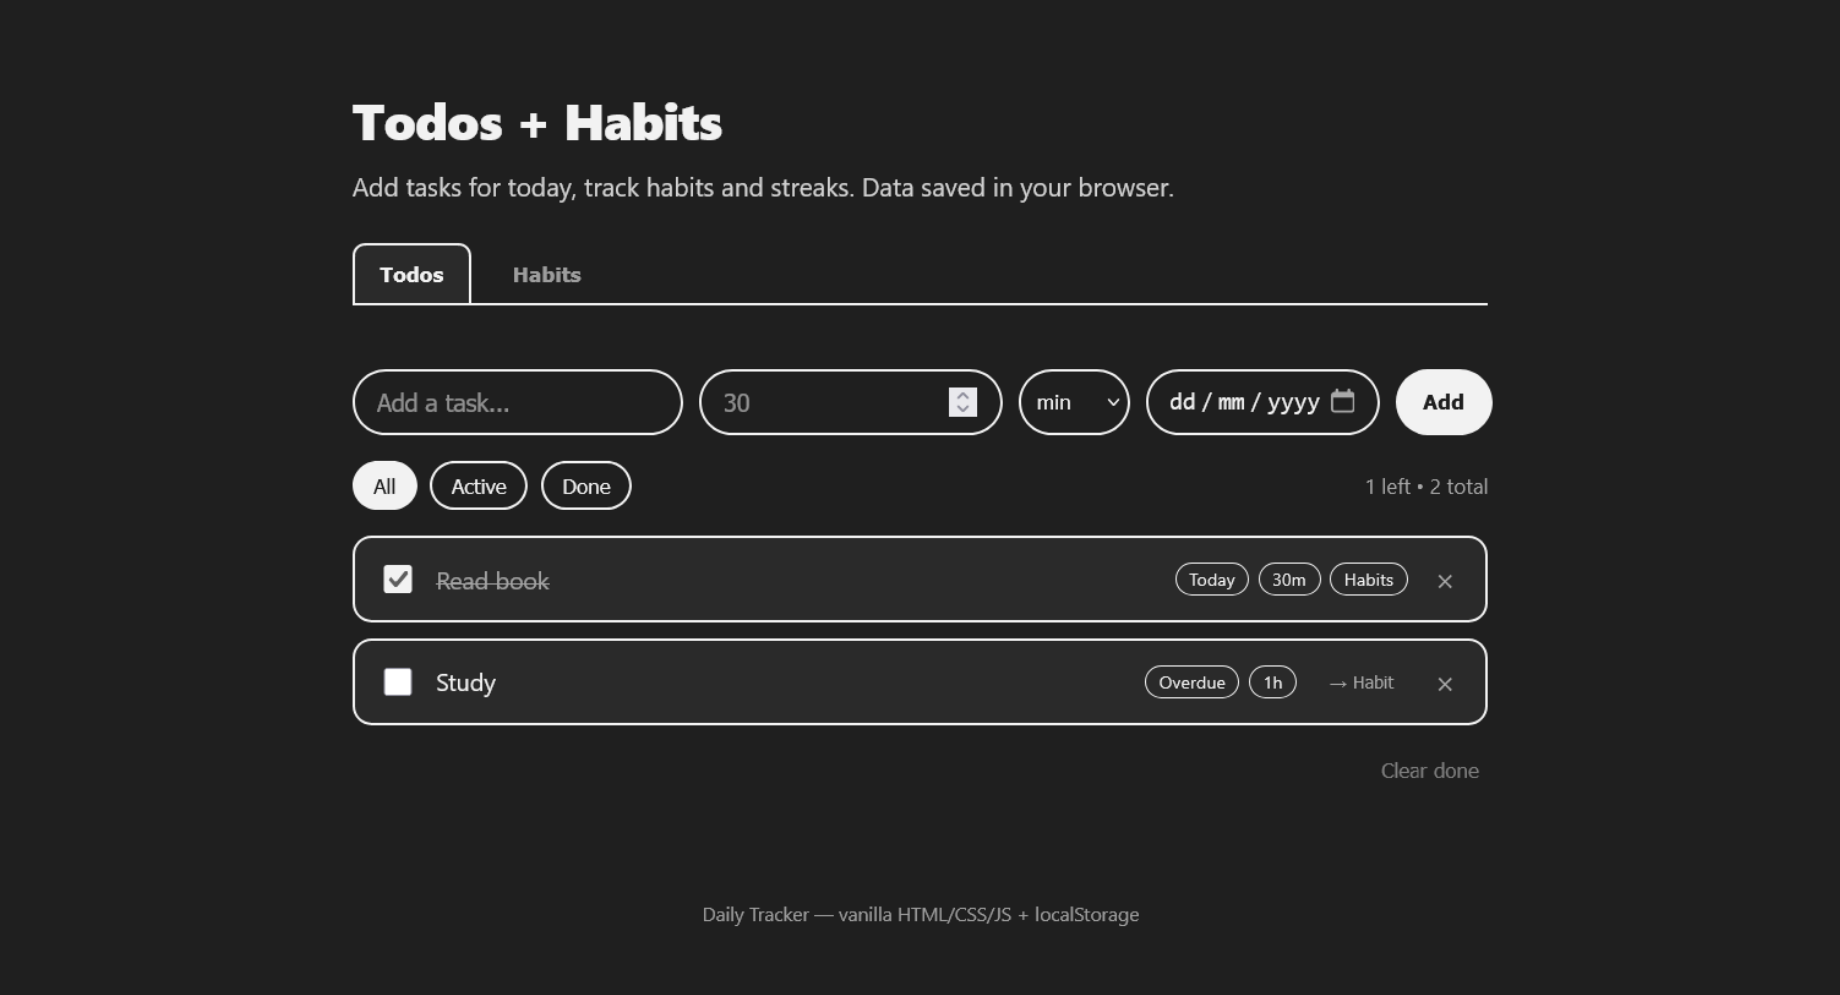
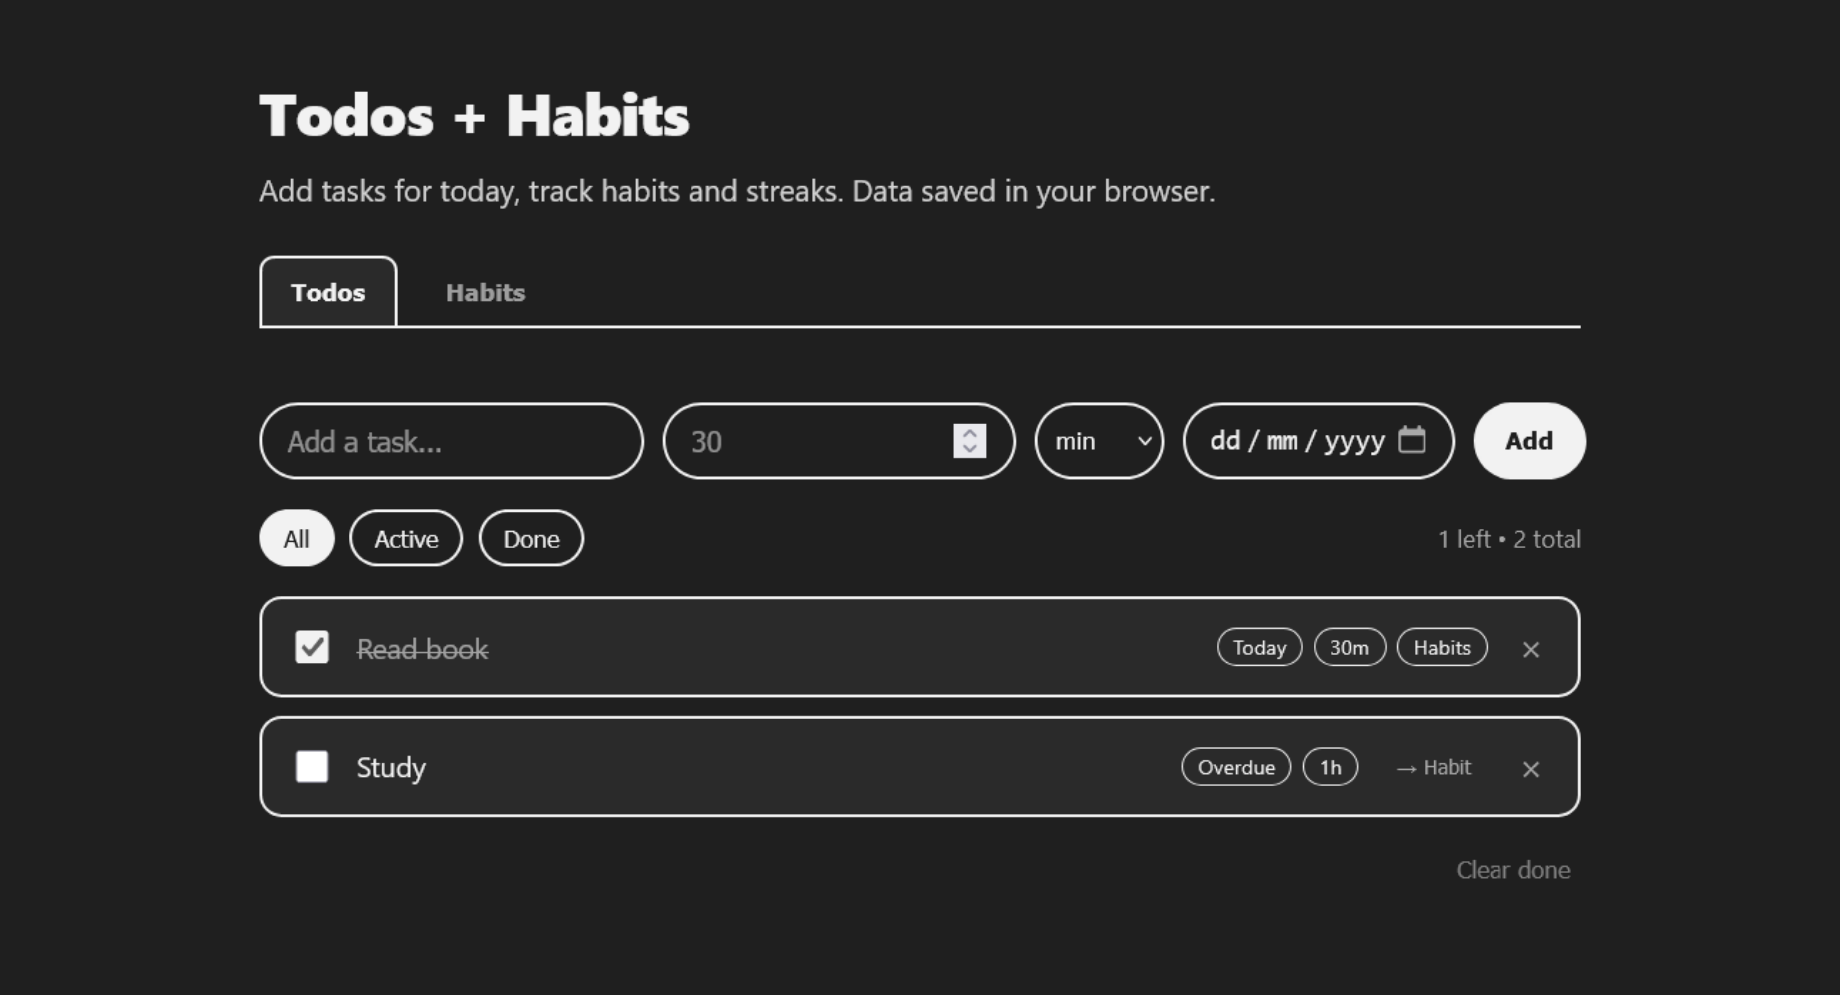
home page update

diff --git a/project-pages/daily-tracker.html b/project-pages/daily-tracker.html
@@ -1,5 +1,6 @@
 <!DOCTYPE html>
 <html lang="en">
+
 <head>
   <meta charset="utf-8">
   <script>
@@ -18,6 +19,7 @@
   <link rel="stylesheet" href="../css/utilities.css">
   <script defer src="../js/script.js"></script>
 </head>
+
 <body>
   <div class="navbar">
     <a class="nav-title-link" href="../index.html"><span class="nav-title">Albert Benedict</span></a>
@@ -32,18 +34,31 @@
   <div id="main-content">
     <div id="project-header">
       <div class="main-title">Daily Tracker — Todos + Habits</div>
-      <div class="body-text">A minimal daily productivity app with two modules: todos (add/complete/filter) and habits (daily check + streak). Built with vanilla HTML/CSS/JS and localStorage, no frameworks — to practice fundamentals.</div>
+      <div class="body-text">A minimal daily productivity app with two modules: todos (add/complete/filter) and habits
+        (daily check + streak). Built with vanilla HTML/CSS/JS and localStorage, no frameworks — to practice
+        fundamentals.</div>
       <img class="project-header-image" src="../assets/images/code.jpeg">
-      <div class="project-links"><a class="button" href="../../daily-tracker/index.html" target="_blank"><span class="button-text">Open Live Demo</span><img src="../assets/icons/arrow-right.svg" class="right-arrow-icon"></a> <a class="button" href="https://github.com/albertbenedict/daily-tracker" target="_blank"><span class="button-text">View Code</span></a></div>
+      <div class="project-links"><a class="button" href="../../daily-tracker/index.html" target="_blank"><span
+            class="button-text">Open Live Demo</span><img src="../assets/icons/arrow-right.svg"
+            class="right-arrow-icon"></a> <a class="button" href="https://github.com/albertbenedict/daily-tracker"
+          target="_blank"><span class="button-text">View Code</span></a></div>
     </div>
 
     <div id="project-details">
       <div class="subheader-text">Project Details / Background</div>
       <div class="project-details-content">
-        <div class="body-text">I had no real project to show, so I built one from scratch to replace the template placeholder. Scope was deliberately small: Todos + Habits. Each uses the same CRUD pattern (add → list → toggle → delete → persist) which made the second module faster to build after the first.</div>
-        <div class="body-text"><strong>Tech:</strong> HTML (semantic forms/lists), CSS (variables + flex + responsive at layout.css:219), JS (DOM, arrays, dates, localStorage). Data saved under keys `daily-tracker-todos` and `daily-tracker-habits`. Today helper at `app.js:getTodayString()` uses `YYYY-MM-DD` for easy streak math.</div>
-        <div class="body-text"><strong>What I learned:</strong> Tab switching without framework (toggle `.active` class), filtering todos by `active/completed`, and streak logic: if lastDone is yesterday increment else reset to 1. Hardest bug was handling undo for habits without breaking streak.</div>
-        <div class="body-text"><strong>Next:</strong> Add Expenses module (amount + totals) as v2 — same pattern, new math.</div>
+        <div class="body-text">I had no real project to show, so I built one from scratch to replace the template
+          placeholder. Scope was deliberately small: Todos + Habits. Each uses the same CRUD pattern (add → list →
+          toggle → delete → persist) which made the second module faster to build after the first.</div>
+        <div class="body-text"><strong>Tech:</strong> HTML (semantic forms/lists), CSS (variables + flex + responsive at
+          layout.css:219), JS (DOM, arrays, dates, localStorage). Data saved under keys `daily-tracker-todos` and
+          `daily-tracker-habits`. Today helper at `app.js:getTodayString()` uses `YYYY-MM-DD` for easy streak math.
+        </div>
+        <div class="body-text"><strong>What I learned:</strong> Tab switching without framework (toggle `.active`
+          class), filtering todos by `active/completed`, and streak logic: if lastDone is yesterday increment else reset
+          to 1. Hardest bug was handling undo for habits without breaking streak.</div>
+        <div class="body-text"><strong>Next:</strong> Add Expenses module (amount + totals) as v2 — same pattern, new
+          math.</div>
       </div>
     </div>
 
@@ -52,15 +67,18 @@
       <div class="project-gallery-content">
         <div class="gallery-image-container half-width">
           <img src="../assets/images/code.jpeg" class="gallery-image">
-          <span class="image-caption">Todos: Add, check complete, filter All/Active/Done, delete, counter + localStorage.</span>
+          <span class="image-caption">Todos: Add, check complete, filter All/Active/Done, delete, counter +
+            localStorage.</span>
         </div>
         <div class="gallery-image-container half-width">
           <img src="../assets/images/sketchbook.jpeg" class="gallery-image">
-          <span class="image-caption">Habits: Add habit, check today, streak 🔥, undo, delete. Consecutive-day logic.</span>
+          <span class="image-caption">Habits: Add habit, check today, streak 🔥, undo, delete. Consecutive-day
+            logic.</span>
         </div>
         <div class="gallery-image-container">
           <img src="../assets/images/desktop.jpeg" class="gallery-image">
-          <span class="image-caption">Responsive + dark mode reuses portfolio theme (utilities.css:3, script.js:13). Deployed as static site.</span>
+          <span class="image-caption">Responsive + dark mode reuses portfolio theme (utilities.css:3, script.js:13).
+            Deployed as static site.</span>
         </div>
       </div>
     </div>
@@ -68,12 +86,17 @@
 
   <div id="footer">
     <div class="footer-icons">
-      <a class="icon-link" target="_blank" href="https://www.linkedin.com/in/albert-benedict-rustandi/"><img src="../assets/icons/linkedin.svg" class="footer-icon" /></a>
-      <a class="icon-link" target="_blank" href="https://www.instagram.com/albertbenedicttt/"><img src="../assets/icons/instagram.svg" class="footer-icon" /></a>
-      <a class="icon-link" target="_blank" href="https://x.com/albertbenedict_"><img src="../assets/icons/x.svg" class="footer-icon" /></a>
-      <a class="icon-link" href="mailto:albert.b.rustandi@icloud.com"><img src="../assets/icons/mail.svg" class="footer-icon" /></a>
+      <a class="icon-link" target="_blank" href="https://www.linkedin.com/in/albert-benedict-rustandi/"><img
+          src="../assets/icons/linkedin.svg" class="footer-icon" /></a>
+      <a class="icon-link" target="_blank" href="https://www.instagram.com/albertbenedicttt/"><img
+          src="../assets/icons/instagram.svg" class="footer-icon" /></a>
+      <a class="icon-link" target="_blank" href="https://x.com/albertbenedict_"><img src="../assets/icons/x.svg"
+          class="footer-icon" /></a>
+      <a class="icon-link" href="mailto:albert.b.rustandi@icloud.com"><img src="../assets/icons/mail.svg"
+          class="footer-icon" /></a>
     </div>
     <div class="footer-copyright">© 2026 | Albert Benedict</div>
   </div>
 </body>
+
 </html>

diff --git a/index.html b/index.html
@@ -53,12 +53,8 @@
           -->
         <img src="./assets/images/1455.png" class="portfolio-header-image">
         <a class="no-underline" target="_blank"
-          href="https://opensea.io/assets/0xe0be388ab81c47b0f098d2030a1c9ef190691a8a/1311">
-          <!-- 
-            TODO
-              Change this and add new link.
-          -->
-          <span class="image-caption">yeah i drew this yeah</span>
+          href="https://github.com/albertbenedict">
+          <span class="image-caption">albertbenedict</span>
         </a>
       </div>
 
@@ -103,13 +99,12 @@
           to build
           the consistency required to turn foundational knowledge into robust professional skills.</div>
         <div class="body-text">When I’m not coding, I usually try to learn something else. I’ve found that focusing on
-          the process makes the hard things a lot more enjoyable because you can take them step by step, day by day. As
-          of
-          right now, that looks like exploring visual media through sketching and video editing, practicing Korean for
-          fun,
-          and pushing through Mandarin to build better future career prospects. Ultimately, it’s all about showing up
-          and
-          trying to get a little bit better every day.</div>
+          the process makes the hard things a lot more enjoyable because you can take them step by step, day by day.
+          Currently, that means exploring visual media through sketching and video editing, or studying Korean and
+          Mandarin to broaden my perspective. I've found that breaking these difficult skills down into manageable,
+          bite-sized steps is what keeps the journey genuinely enjoyable. It somehow transforms something that feels
+          completely overwhelming into a rewarding daily habit. Ultimately, it’s all about showing up and making
+          incremental progress every day.</div>
       </div>
     </div>
 
@@ -162,7 +157,7 @@
           </div>
           <div class="project-card-text-container">
             <div class="subheader-text project-title">Guess the Song Game</div>
-            <div class="body-text project-card-text">a Songspot-like music trivia game, but for any artist you choose
+            <div class="body-text project-card-text">A Songspot-like music trivia game, but for any artist you choose
               rather than a fixed daily playlist.</div>
           </div>
           <a class="button" href="./project-pages/guess-song.html">
@@ -171,11 +166,14 @@
           </a>
         </div>
         <div class="project-card">
-          <img src="./assets/images/sketchbook.jpeg" class="project-image">
+          <div class="project-image-wrapper">
+            <img src="./assets/images/herta.png" class="project-image light-image" alt="Artworks light">
+            <img src="./assets/images/makoto.png" class="project-image dark-image" alt="Artworks dark">
+          </div>
           <div class="project-card-text-container">
-            <div class="subheader-text project-title">Super Long Project Name That Should be Hidden</div>
-            <div class="body-text project-card-text">Elit pellentesque habitant morbi tristique senectus et netus et.
-              Elementum tempus egestas sed sed risus pretium quam.</div>
+            <div class="subheader-text project-title">Some of My Artworks</div>
+            <div class="body-text project-card-text">A collection of my personal digital artwork, illustrations, and
+              sketches, primarily created using Procreate.</div>
           </div>
           <a class="button" href="./project-pages/project-template.html">
             <span class="button-text">Read More</span>
@@ -203,7 +201,8 @@
         <div class="info-section-content">
           <div class="body-text"><span class="info-label">Web Development</span> - HTML, CSS, JavaScript</div>
           <div class="body-text"><span class="info-label">Languages</span> - Indonesian, English, Korean</div>
-          <div class="body-text"><span class="info-label">Creative</span> - Adobe Premiere Pro, Digital Art</div>
+          <div class="body-text"><span class="info-label">Creative</span> - Premiere Pro, Photoshop, FL Studio, Digital
+            Art</div>
         </div>
       </div>
     </div>

diff --git a/css/layout.css b/css/layout.css
@@ -21,7 +21,7 @@ body {
 /* Main Page Layout */
 
 #main-content {
-  margin: 195px 425px;
+  margin: 120px 425px;
   display: flex;
   flex-direction: column;
   gap: 96px;
@@ -57,11 +57,15 @@ body {
 #portfolio-header-text-container {
   display: flex;
   flex-direction: column;
-  gap: 34px;
+  gap: 20px;
   flex-basis: 50%;
 }
 
-
+.header-text {
+  display: flex;
+  flex-direction: column;
+  gap: 8px;
+}
 
 
 /* About Section */
@@ -149,6 +153,7 @@ body {
   height: 200px;
   overflow: hidden;
 }
+
 .project-image-wrapper .project-image {
   position: absolute;
   inset: 0;
@@ -156,10 +161,22 @@ body {
   height: 200px;
   transition: opacity 0.25s ease;
 }
-.light-image { opacity: 1; }
-.dark-image { opacity: 0; }
-[data-theme="dark"] .light-image { opacity: 0; }
-[data-theme="dark"] .dark-image { opacity: 1; }
+
+.light-image {
+  opacity: 1;
+}
+
+.dark-image {
+  opacity: 0;
+}
+
+[data-theme="dark"] .light-image {
+  opacity: 0;
+}
+
+[data-theme="dark"] .dark-image {
+  opacity: 1;
+}
 
 /* Project Pages */
 
@@ -229,6 +246,7 @@ body {
   #main-content {
     margin: 195px 275px;
   }
+
   #main-content:has(#project-header) {
     margin: 140px 275px 0 275px;
   }
@@ -239,6 +257,7 @@ body {
   #main-content {
     margin: 195px 175px;
   }
+
   #main-content:has(#project-header) {
     margin: 140px 175px 0 175px;
   }
@@ -249,6 +268,7 @@ body {
   #main-content {
     margin: 195px 75px;
   }
+
   #main-content:has(#project-header) {
     margin: 140px 75px 0 75px;
   }
@@ -259,6 +279,7 @@ body {
   #main-content {
     margin: 120px 50px;
   }
+
   #main-content:has(#project-header) {
     margin: 90px 50px 0 50px;
   }
@@ -277,6 +298,7 @@ body {
   #main-content {
     margin: 95px 20px;
   }
+
   #main-content:has(#project-header) {
     margin: 70px 20px 0 20px;
   }
@@ -285,7 +307,7 @@ body {
     max-width: 100%;
   }
 
-    #education-skills-section {
+  #education-skills-section {
     flex-direction: column;
   }
 }
